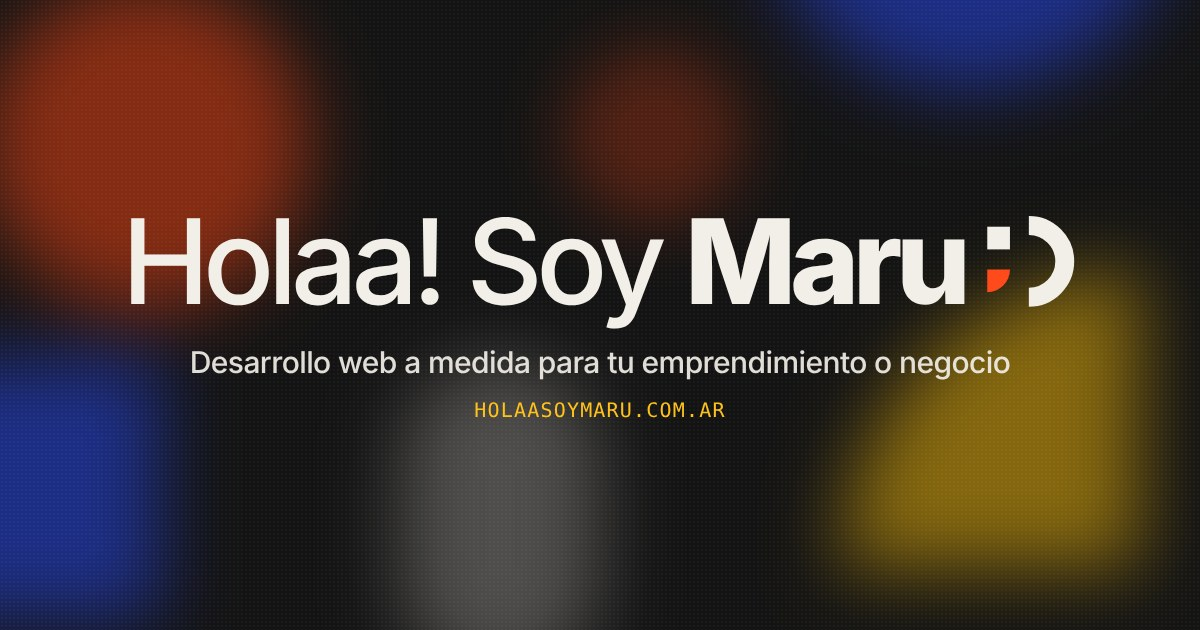
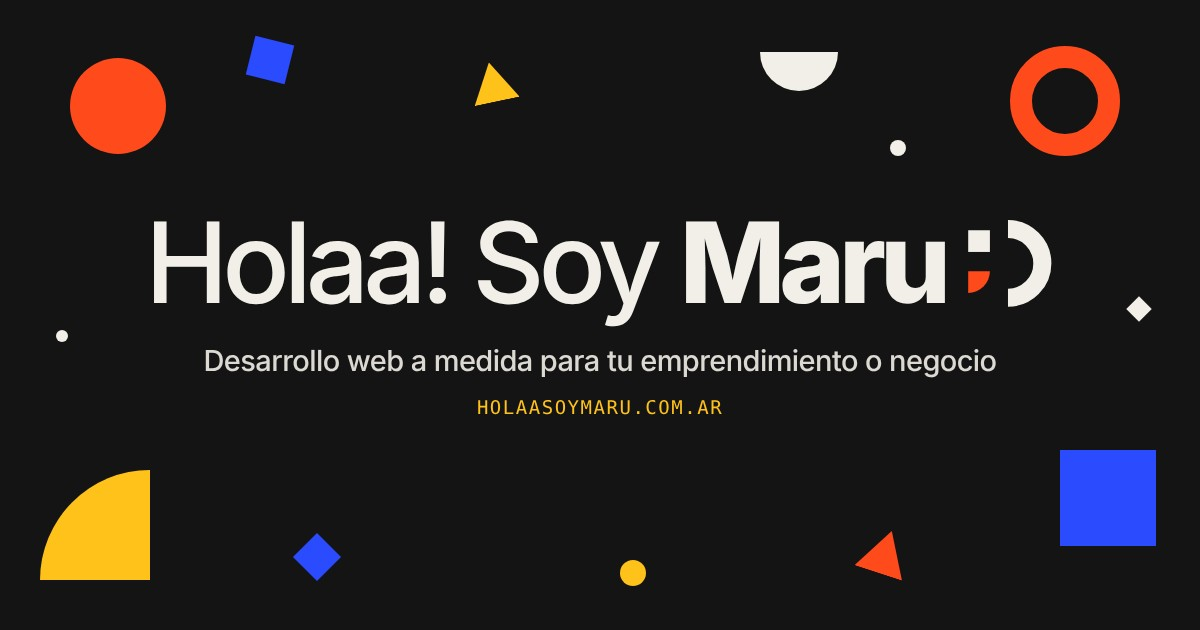
OG nueva con fondo negro, proyectos en círculo con órbitas, header pill flotante y avatares de Instagram
Claude-Session: https://claude.ai/code/session_01FaqiGW8H1YWLdYqdoQaMdK

diff --git a/app/globals.css b/app/globals.css
@@ -228,6 +228,45 @@ main {
   pointer-events: none;
 }
 
+/* Desktop: el header es una pill larga flotante */
+@media (min-width: 901px) {
+  .header {
+    inset: 12px var(--pad) auto;
+    max-width: calc(1600px - 2 * var(--pad));
+    margin-inline: auto;
+    padding: 0.32rem 0.36rem 0.32rem 1.1rem;
+    border: 1px solid var(--line);
+    border-radius: 999px;
+    box-shadow: 0 10px 30px -12px rgba(20, 20, 20, 0.18);
+    transition:
+      transform 0.6s var(--ease),
+      background 0.4s,
+      border-color 0.4s,
+      box-shadow 0.4s;
+  }
+
+  .header.is-hidden {
+    transform: translateY(calc(-100% - 20px));
+  }
+
+  .header.is-top {
+    box-shadow: none;
+  }
+
+  .logo .logo-wink {
+    height: 34px;
+  }
+
+  .nav a {
+    font-size: 0.95rem;
+  }
+
+  .header-cta {
+    padding: 0.55rem 1.05rem;
+    font-size: 0.88rem;
+  }
+}
+
 @media (min-width: 901px) {
   .header .nav {
     transition:
@@ -1227,6 +1266,88 @@ main {
   transform: rotate(90deg);
 }
 
+/* imagen del proyecto en círculo + órbitas */
+.orbit-wrap {
+  position: relative;
+  width: 100%;
+  height: 100%;
+}
+
+.slide-cover--circle {
+  position: absolute;
+  inset: 9%;
+  width: auto;
+  height: auto;
+  border-radius: 50%;
+  box-shadow: none;
+}
+
+.slide-cover--circle img {
+  border-radius: 50%;
+}
+
+.orbit-path {
+  position: absolute;
+  border-radius: 50%;
+  pointer-events: none;
+}
+
+.orbit-path--1 {
+  inset: 2%;
+  border: 1px solid color-mix(in srgb, var(--fg) 28%, transparent);
+  animation: spin 16s linear infinite;
+}
+
+.orbit-path--2 {
+  inset: 5.5%;
+  animation: spin 11s linear infinite reverse;
+}
+
+.orbit-sat {
+  position: absolute;
+  display: block;
+}
+
+.orbit-sat--circle {
+  top: 0;
+  left: 50%;
+  width: 7%;
+  aspect-ratio: 1;
+  translate: -50% -50%;
+  border-radius: 50%;
+  background: var(--accent);
+  box-shadow: 0 0 0 4px var(--bg);
+}
+
+.orbit-sat--square {
+  bottom: 14%;
+  left: 7%;
+  width: 3.4%;
+  aspect-ratio: 1;
+  background: var(--fg);
+  rotate: 20deg;
+}
+
+.slide.is-current .orbit-path {
+  opacity: 0;
+  animation-name: spin, orbitIn;
+  animation-duration: 16s, 0.9s;
+  animation-timing-function: linear, var(--ease);
+  animation-delay: 0s, 0.6s;
+  animation-iteration-count: infinite, 1;
+  animation-fill-mode: none, forwards;
+}
+
+.slide.is-current .orbit-path--2 {
+  animation-duration: 11s, 0.9s;
+  animation-direction: reverse, normal;
+  animation-delay: 0s, 0.75s;
+}
+
+.slide.is-prev .orbit-path {
+  opacity: 1;
+}
+
 .slide-big {
   position: absolute;
   right: -0.08em;
@@ -2086,6 +2207,11 @@ main {
   40% { transform: scale(0.96); }
 }
 
+@keyframes orbitIn {
+  from { opacity: 0; scale: 0.85; }
+  to { opacity: 1; scale: 1; }
+}
+
 @keyframes imgIn {
   from { clip-path: inset(100% 0 0 0); transform: scale(1.2); }
   to { clip-path: inset(0 0 0 0); transform: scale(1); }
@@ -2463,9 +2589,15 @@ main {
     container-type: size;
   }
 
-  .slide-cover {
+  .slide-cover,
+  .orbit-wrap {
     width: min(100cqw, 100cqh);
     height: min(100cqw, 100cqh);
+  }
+
+  .slide-cover--circle {
+    width: auto;
+    height: auto;
   }
 
   .work-ui {

diff --git a/components/Projects.tsx b/components/Projects.tsx
@@ -164,7 +164,20 @@ export default function Projects() {
                   )}
                 </div>
                 <div className="slide-visual">
-                  <Cover shapes={p.cover} accent={p.accent} className="slide-cover" image={p.logo} imageAlt={p.title} />
+                  {p.logo ? (
+                    // imagen en círculo grande con formitas orbitando
+                    <div className="orbit-wrap" style={{ ["--accent" as string]: `var(--${p.accent})` }}>
+                      <span className="orbit-path orbit-path--1" aria-hidden>
+                        <i className="orbit-sat orbit-sat--circle" />
+                      </span>
+                      <span className="orbit-path orbit-path--2" aria-hidden>
+                        <i className="orbit-sat orbit-sat--square" />
+                      </span>
+                      <Cover shapes={p.cover} accent={p.accent} className="slide-cover slide-cover--circle" image={p.logo} imageAlt={p.title} />
+                    </div>
+                  ) : (
+                    <Cover shapes={p.cover} accent={p.accent} className="slide-cover" />
+                  )}
                 </div>
               </div>
             </article>
